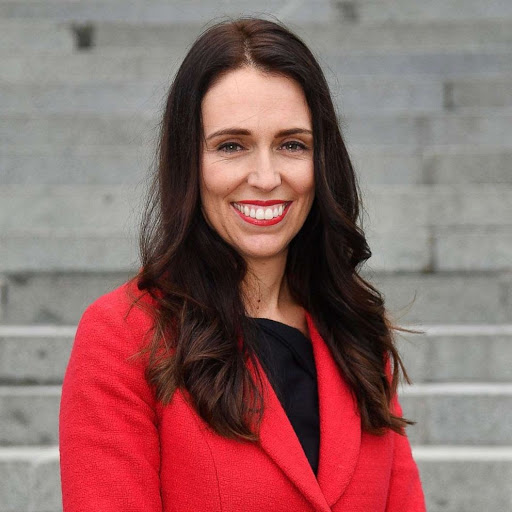
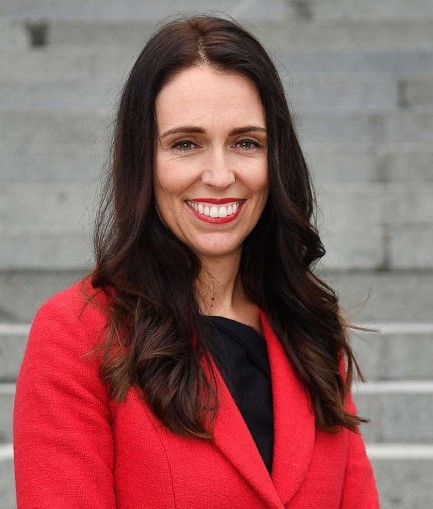
Added Ardern Bio Img

diff --git a/styles.css b/styles.css
@@ -120,7 +120,7 @@ h1{
   color: #bb0000;
 }
 .fa-linkedin{
-  color: ##2867B2;
+  color: #2867B2;
 }
 .fa-envelope{
   color: #bb0000;
@@ -195,7 +195,10 @@ input.button{
   text-align: center;
 }
 
-
+#bio-resize{
+  width: 300px;
+  height: 386px;
+}
 
 /*
 Extra small (xs) devices (portrait phones, less than 576px)

diff --git a/discoveries.html b/discoveries.html
@@ -77,7 +77,7 @@
     </div>
     <br>
     <div id="alignPicture" class="col-lg-3">
-      <img src="img/Ardern/ardern-bio.jpg" class="img-fluid">
+      <img src="img/Ardern/ardern-bio.jpg" class="img-fluid" id="bio-resize">
     </div>
   </div>
 </div>
